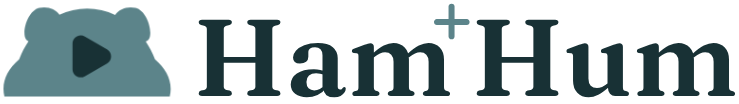
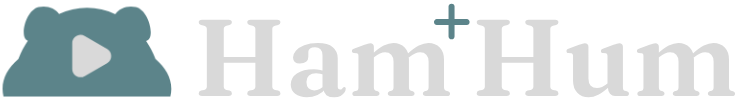
Update - Dark mode image

diff --git a/components/auth-button.tsx b/components/auth-button.tsx
@@ -3,6 +3,7 @@ import { Button } from "./ui/button";
 import { createClient } from "@/lib/supabase/server";
 import { LogoutButton } from "./logout-button";
 import { Bell, Bookmark, Search } from "lucide-react";
+import { ThemeSwitcher } from "./theme-switcher";
 
 export async function AuthButton() {
 	const supabase = await createClient();
@@ -24,6 +25,7 @@ export async function AuthButton() {
 					<Bookmark />
 				</Link>
 			</Button>
+
 			{user ? (
 				<Button asChild size="sm" className="rounded-full p-2" variant={"outline"}>
 					<Link href="#">
@@ -34,10 +36,11 @@ export async function AuthButton() {
 			{user ? (
 				<LogoutButton />
 			) : (
-				<Button className="rounded-2xl px-5" asChild size="sm" variant={"outline"}>
+				<Button className="rounded-2xl px-10" asChild size="sm" variant={"outline"}>
 					<Link href="/auth/login">Sign in</Link>
 				</Button>
 			)}
+			<ThemeSwitcher />
 		</div>
 	);
 }

diff --git a/components/brand-logo.tsx b/components/brand-logo.tsx
@@ -3,9 +3,6 @@ import Link from "next/link";
 const BrandLogo = ({}) => {
 	return (
 		<Link className="flex text-3xl font-fraunces" href={"/"}>
-			{/* Ham
-			<span className="text-primary font-extrabold text-2xl -mt-2 -ml-1 block">+</span>
-			Hum */}
 			<img
 				className="h-8 w-auto hidden dark:block"
 				src="/Dark-Mode.png"

diff --git a/components/section/footer.tsx b/components/section/footer.tsx
@@ -68,7 +68,6 @@ const Footer = ({}) => {
 					<p>Not for commercial use.</p>
 				</div>
 			</div>
-			{/* <ThemeSwitcher /> */}
 		</footer>
 	);
 };
